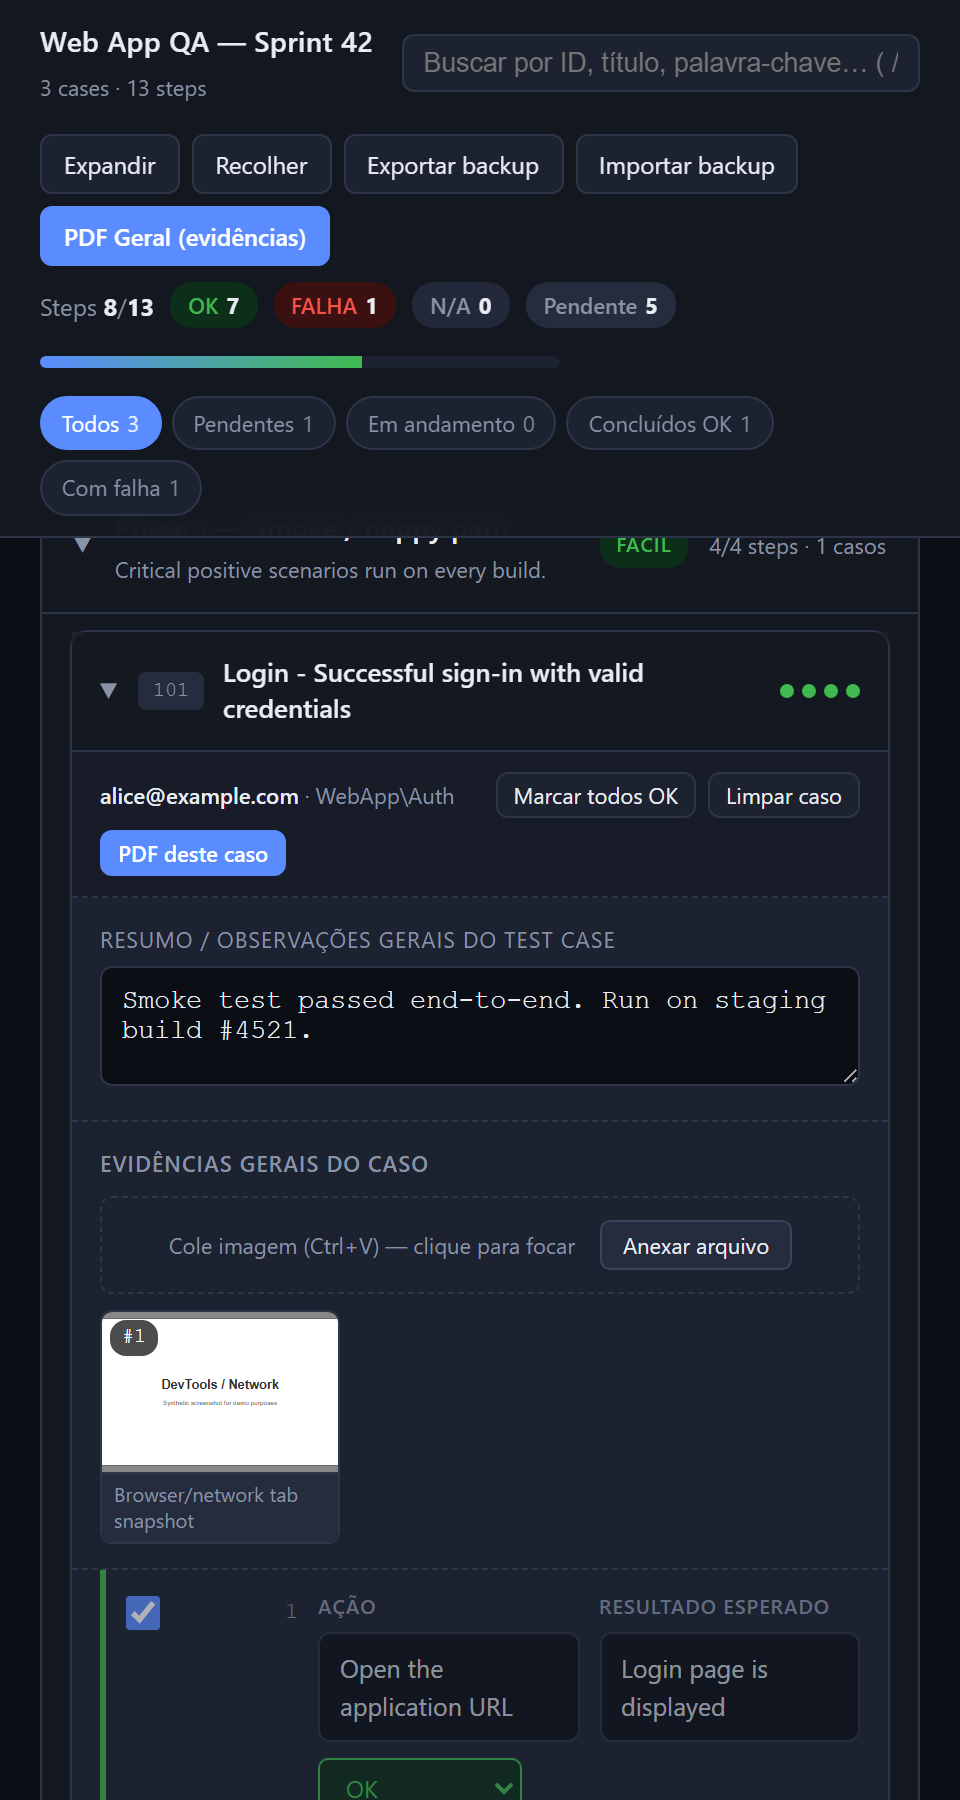
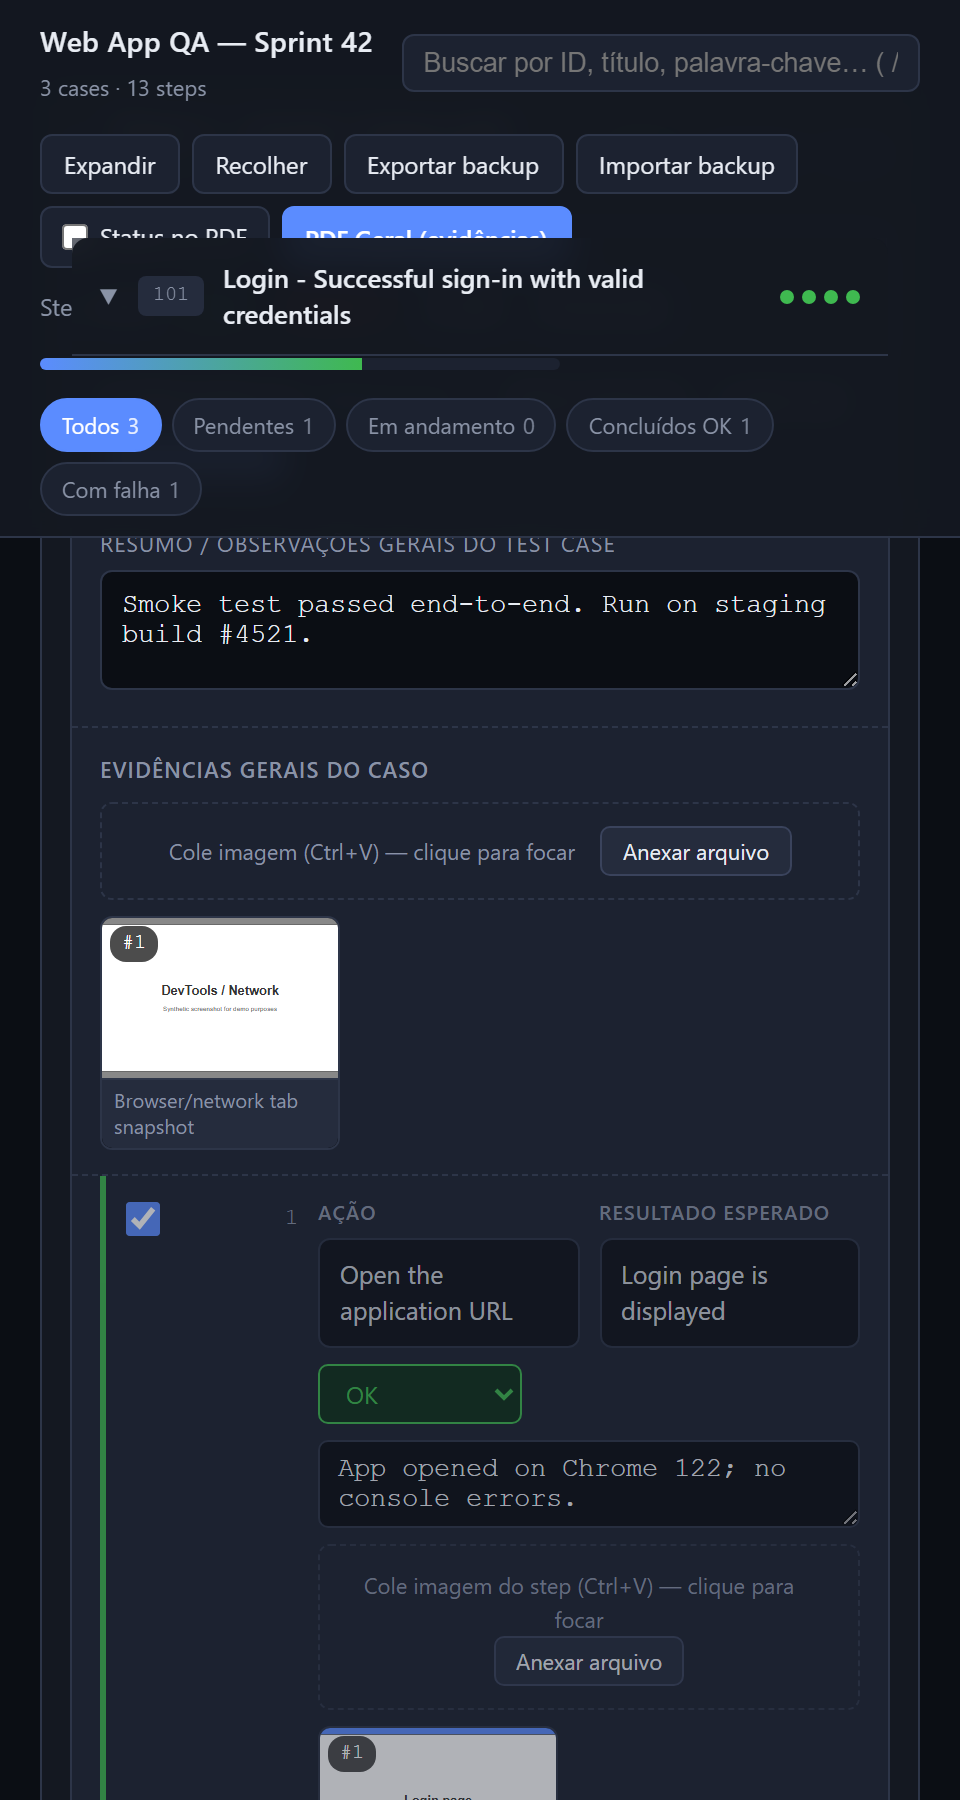
feat: opt-in "Status no PDF" toggle (v1.1.0)
Adds toolbar checkbox to show PASS/FAIL/N/A status pills in the exported PDF.
Default OFF (clean evidence layout); preference persists in localStorage
under key e350-tests-v3-status-pdf.

When toggled ON:
- Each step prefixes its English action label with a colored pill (PASS green,
  FAIL red, N/A gray) inside .step-en-label::before.
- Each case-head shows a one-line summary "<done>/<total> steps · <P> PASS ·
  <F> FAIL · <N> N/A" pulled from data-pdf-summary attribute.
- Both the per-case PDF and the general PDF honor it.

Implementation:
- New body class .show-status-pdf gates the print CSS rules.
- renderCase() emits data-pdf-summary on .case-head.
- updateCaseHeader() refreshes data-pdf-summary on every status change.
- New .toggle CSS for the inline toolbar checkbox styling.

Bumped version to 1.1.0. Updated CHANGELOG. Added screenshot
06b-pdf-evidence-status.png; README sections updated in EN and PT-BR.

diff --git a/docs/screenshots.py b/docs/screenshots.py
@@ -152,12 +152,17 @@ async def capture_all():
         await page.locator('.chip[data-f="all"]').click()
         await page.wait_for_timeout(300)
 
-        # 7) Print preview emulation (evidence layout)
+        # 7) Print preview emulation (evidence layout — status hidden, default)
         await page.evaluate("document.body.classList.add('print-evidence')")
         await page.emulate_media(media="print")
         await page.screenshot(path=str(OUT_DIR / "06-pdf-evidence.png"), full_page=True)
+
+        # 7b) Same print preview WITH status badges (toggle ON)
+        await page.evaluate("document.body.classList.add('show-status-pdf')")
+        await page.screenshot(path=str(OUT_DIR / "06b-pdf-evidence-status.png"), full_page=True)
+
         await page.emulate_media(media="screen")
-        await page.evaluate("document.body.classList.remove('print-evidence')")
+        await page.evaluate("document.body.classList.remove('print-evidence','show-status-pdf')")
 
         # 8) Mobile-ish narrow view
         await page.set_viewport_size({"width": 480, "height": 900})

diff --git a/tfs_test_runner/__init__.py b/tfs_test_runner/__init__.py
@@ -1,5 +1,5 @@
 """tfs-test-runner — Azure DevOps / TFS xlsx → HTML test plan generator."""
-__version__ = "1.0.0"
+__version__ = "1.1.0"
 
 from .parse import parse_xlsx
 from .translate import translate_cases, load_glossary_yaml, DEFAULT_MODEL

diff --git a/CHANGELOG.md b/CHANGELOG.md
@@ -5,6 +5,21 @@ All notable changes to this project are documented in this file.
 The format is based on [Keep a Changelog](https://keepachangelog.com/en/1.1.0/),
 and this project adheres to [Semantic Versioning](https://semver.org/).
 
+## [1.1.0] — 2026-04-28
+
+### Added
+- **Status badges in PDF** (opt-in toggle). New "Status no PDF" toggle in the
+  toolbar adds PASS / FAIL / N/A pills to each step in the exported PDF, plus
+  a per-case summary line ("X/Y steps · A PASS · B FAIL · C N/A"). Default
+  off — preserves the clean evidence-only layout. Preference persists in
+  `localStorage`.
+- New screenshot `06b-pdf-evidence-status.png` showing toggle ON state.
+
+### Changed
+- README + README.pt-BR: added screenshot section for the toggle feature with
+  call-out about when to use it.
+- `screenshots.py` regenerated 7 → 8 screenshots, adds `06b-pdf-evidence-status`.
+
 ## [1.0.0] — 2026-04-28
 
 Initial public release. Generic Azure DevOps / TFS test case xlsx → HTML

diff --git a/README.pt-BR.md b/README.pt-BR.md
@@ -17,6 +17,12 @@
 |---|---|
 | ![Filtro falhas](docs/images/05-filter-failures.png) | ![PDF de evidências](docs/images/06-pdf-evidence.png) |
 
+| PDF com selos de status (toggle LIGADO) |
+|---|
+| ![PDF com status](docs/images/06b-pdf-evidence-status.png) |
+
+> ℹ Toggle **"Status no PDF"** no toolbar adiciona selos PASS / FAIL / N/A ao lado de cada step no PDF exportado. Útil pra entregáveis que exigem veredito explícito por step.
+
 <details>
 <summary><b>Mais screenshots</b> (plano cheio, mobile, estado inicial)</summary>
 

diff --git a/README.md b/README.md
@@ -17,6 +17,12 @@
 |---|---|
 | ![Failure filter](docs/images/05-filter-failures.png) | ![PDF evidence](docs/images/06-pdf-evidence.png) |
 
+| PDF with status badges (toggle ON) |
+|---|
+| ![PDF with status](docs/images/06b-pdf-evidence-status.png) |
+
+> ℹ Toggle **"Status no PDF"** in the toolbar adds PASS / FAIL / N/A pills next to each step in the exported PDF. Useful for client deliverables that need explicit verdict per step.
+
 <details>
 <summary><b>More screenshots</b> (full plan, narrow viewport, empty state)</summary>
 
